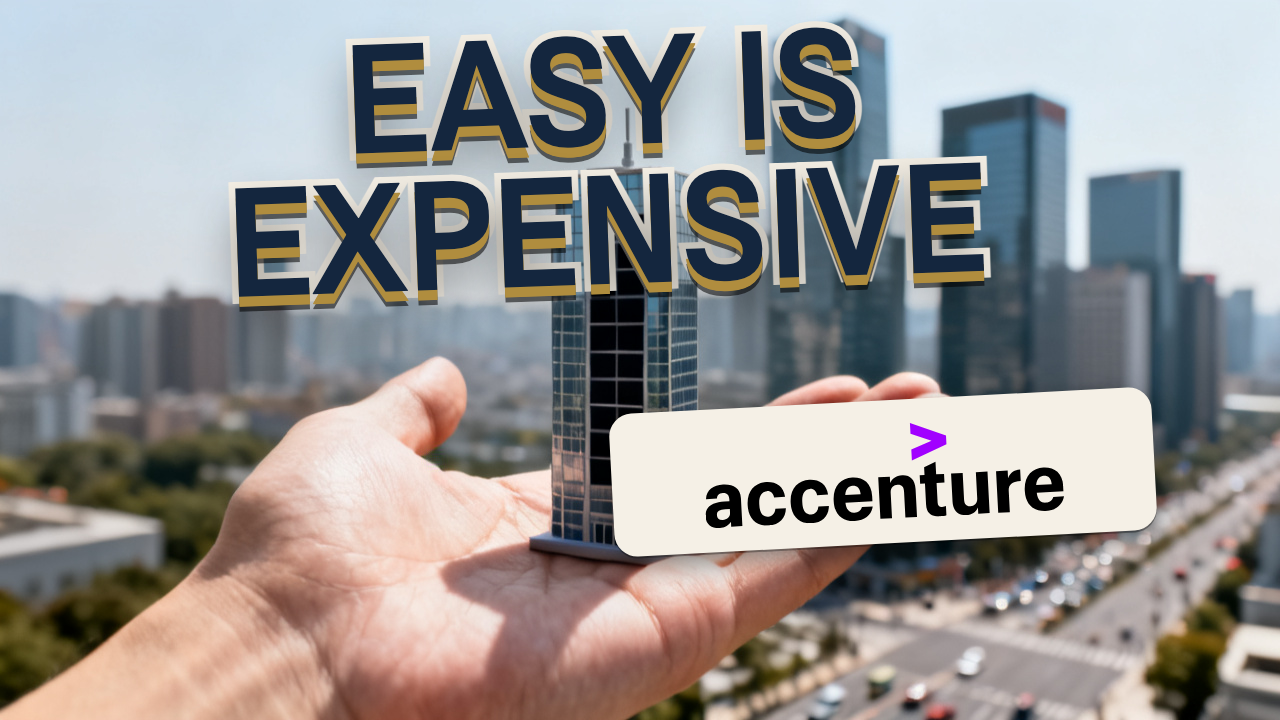
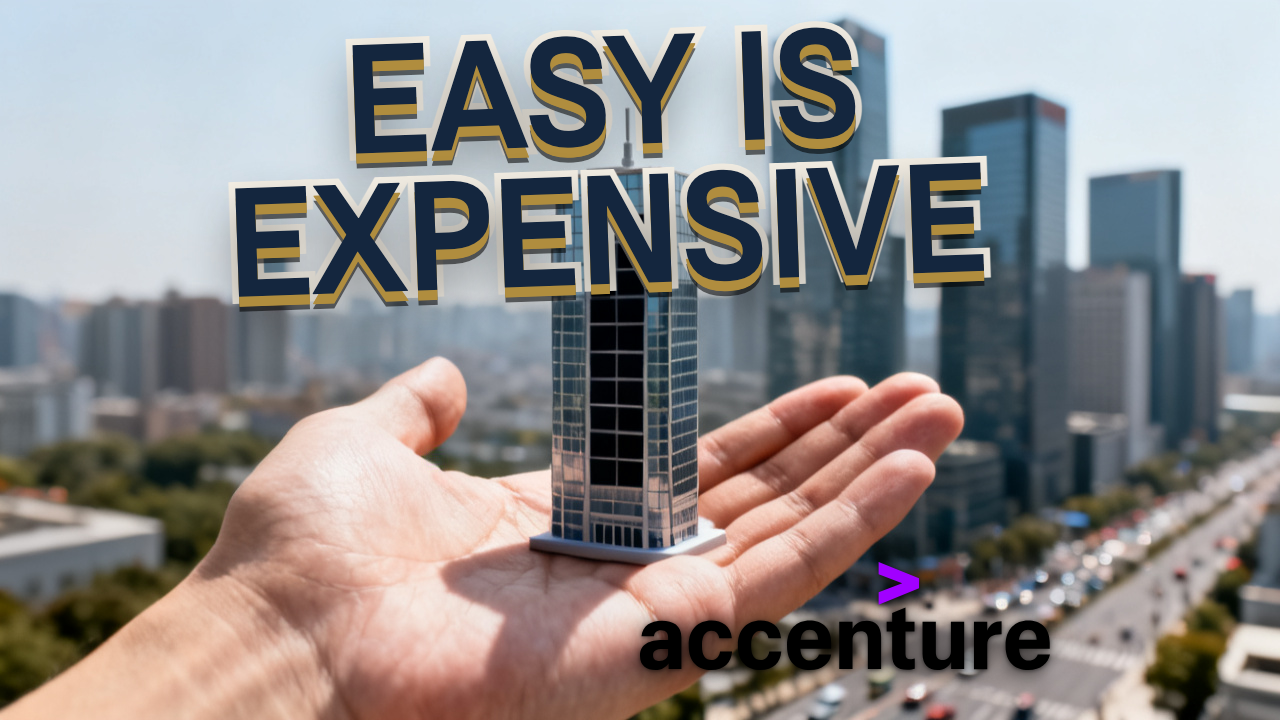
EP001: set the wordmark on the photograph, not on a chip
The paper plate was doing two jobs and only one of them well. It guaranteed
contrast, and it made the mark read as a sticker applied after the fact — which
is exactly the losing form the comp set shows: brand as vector chip loses, brand
as object in the scene wins. Removing it is the last step of that correction.

`plate: false` on a scatter entry drops the chip, the padding and the rounded
corner, and gives the mark a drop shadow instead so it still separates from a
busy blurred street without sitting on a card.

Moved down and right as asked, and the clearance is calculated rather than
eyeballed: at s=0.82 the wordmark spans x 0.499-0.821, so its right edge stops
short of the x>0.85 column where YouTube stamps duration. Proof frame with the
box drawn is kept alongside it. Worth stating because "close to the bottom right"
and "clear of the bottom right" are about thirty pixels apart here.

Changed region(s): [[0.4688, 0.5194, 0.9062, 0.9472]]

diff --git a/studio/remotion/src/ThumbnailComposition.tsx b/studio/remotion/src/ThumbnailComposition.tsx
@@ -39,7 +39,12 @@ export type ThumbnailData = {
   // a square chip shrinks it to a sliver of padding, which defeats the reason
   // for using a wordmark at all: the glyph alone is an unrecognisable chevron,
   // the word is the recognisable thing.
-  scatter?: {x: number; y: number; s: number; r: number; ar?: number}[];
+  // `plate: false` drops the paper chip and sets the mark straight onto the
+  // photograph. The chip is right for a glyph that needs a ground to sit on;
+  // on a wordmark it reads as a sticker applied afterwards, which is the
+  // losing form — brand as vector chip rather than brand as object in the
+  // scene. Without it the mark needs its own separation, so it gets a shadow.
+  scatter?: {x: number; y: number; s: number; r: number; ar?: number; plate?: boolean}[];
 };
 
 // Rule 1 bans a kicker, a channel mark and an episode number on a thumbnail:
@@ -351,11 +356,15 @@ const FlatlayVariant: React.FC<ThumbnailData> = (p) => {
               left: `${c.x * 100}%`, top: `${c.y * 100}%`,
               width: chipW, height: size,
               transform: `translate(-50%, -50%) rotate(${c.r}deg)`,
-              background: COLORS.paper,
-              borderRadius: size * 0.16,
-              padding: size * 0.17,
-              boxSizing: 'border-box',
-              boxShadow: '0 10px 26px rgba(0,0,0,0.45), 0 2px 0 rgba(0,0,0,0.3)',
+              ...(c.plate === false
+                ? {filter: 'drop-shadow(0 4px 10px rgba(0,0,0,0.55)) drop-shadow(0 1px 2px rgba(0,0,0,0.6))'}
+                : {
+                    background: COLORS.paper,
+                    borderRadius: size * 0.16,
+                    padding: size * 0.17,
+                    boxSizing: 'border-box' as const,
+                    boxShadow: '0 10px 26px rgba(0,0,0,0.45), 0 2px 0 rgba(0,0,0,0.3)',
+                  }),
             }}
           >
             <Img src={staticFile(l.file)} style={{width: '100%', height: '100%', objectFit: 'contain'}} />
